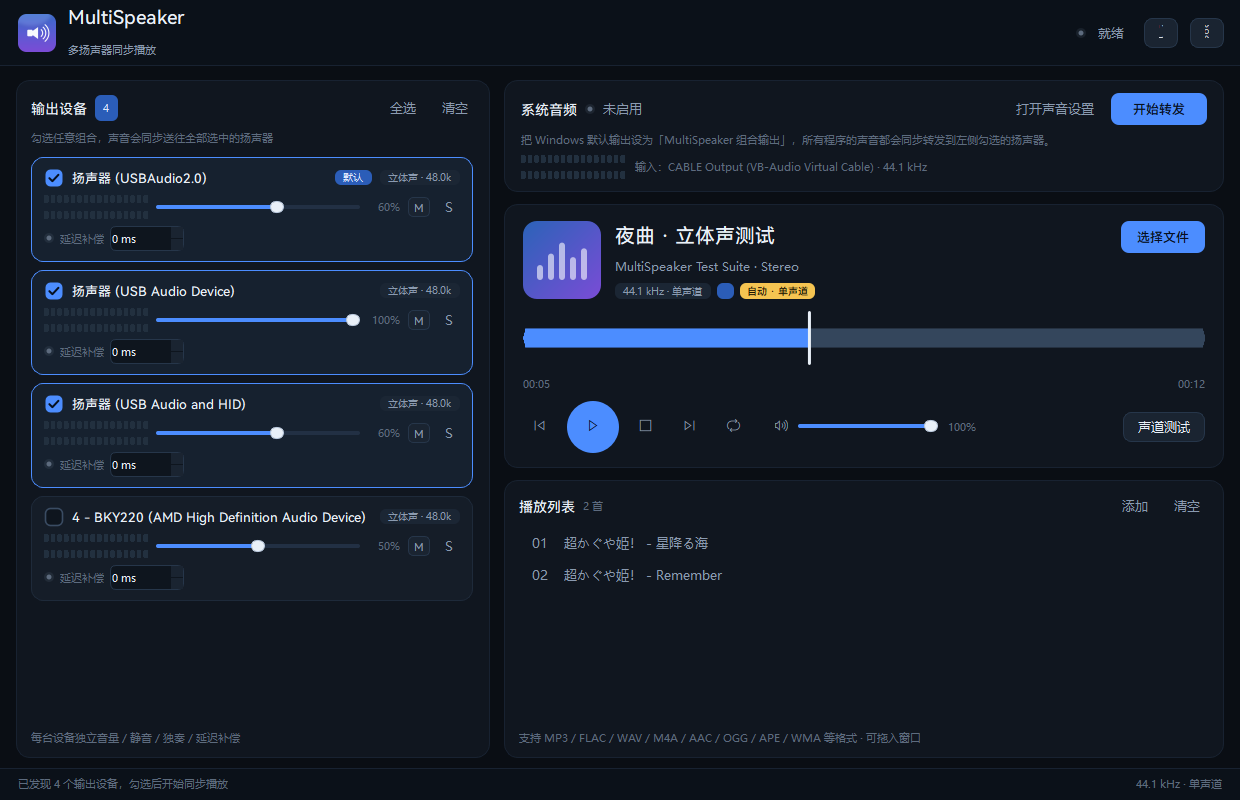
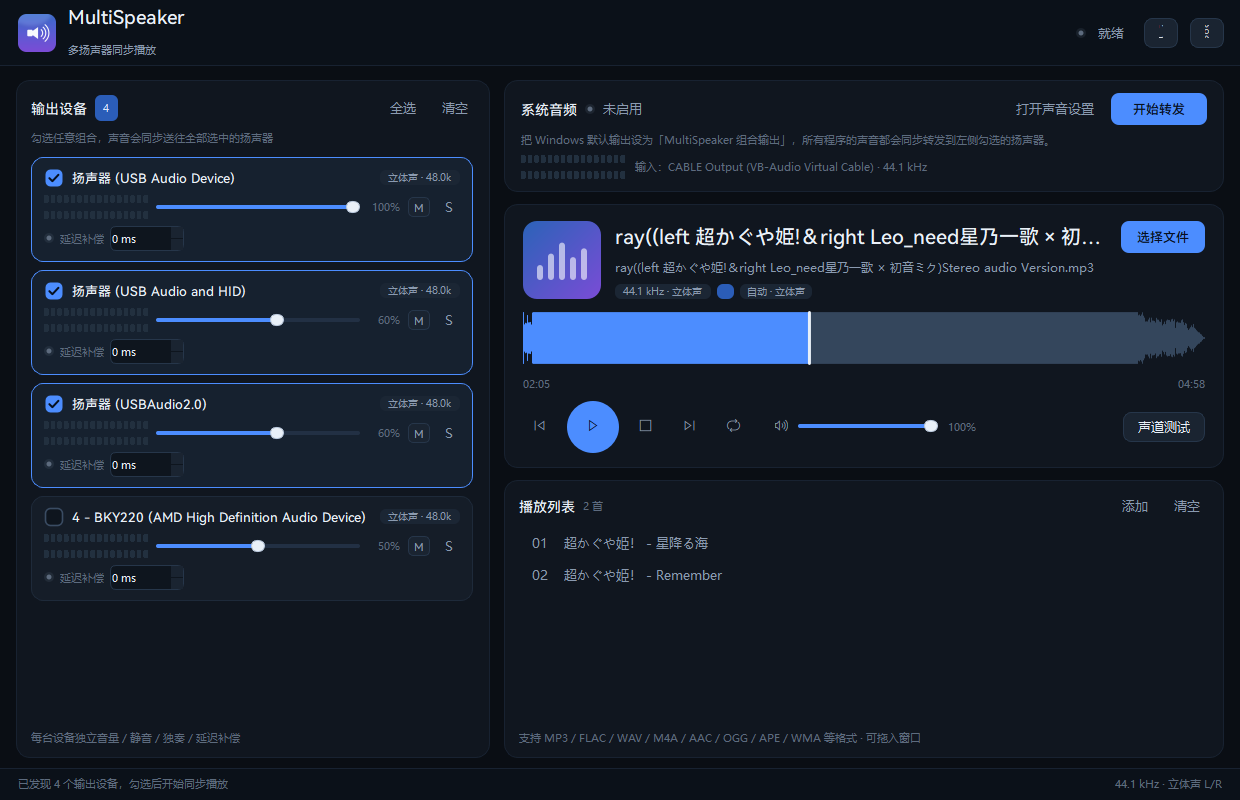
docs: 更新界面截图（自动模式显示立体声）

diff --git a/tools/shot_main2.py b/tools/shot_main2.py
@@ -1,0 +1,24 @@
+import sys, time
+from pathlib import Path
+ROOT = Path(__file__).resolve().parents[1]
+sys.path.insert(0, str(ROOT))
+from PySide6.QtWidgets import QApplication
+from app.ui import theme
+from app.ui.main_window import MainWindow
+app = QApplication([]); app.setStyle("Fusion"); app.setFont(theme.base_font(9.5)); app.setStyleSheet(theme.build_qss())
+w = MainWindow(); w.resize(1240, 800); w.show()
+def pump(sec, until=None):
+    end=time.time()+sec
+    while time.time()<end:
+        app.processEvents(); time.sleep(0.01)
+        if until and until(): return True
+    return False
+pump(0.4)
+k=list(w.cards.keys())[0]; w.cards[k].set_checked(True); w._on_card_toggled(k, True)
+w._load_path(r"I:\Music\U盘音乐\ray((left 超かぐや姫!＆right Leo_need星乃一歌 × 初音ミク)Stereo audio Version.mp3", autoplay=False)
+pump(20, until=lambda: w.track is not None)
+w.wave.set_progress(0.42); w.time_now.setText("02:05"); w.time_total.setText("04:58")
+pump(0.6)
+w.grab().save(str(ROOT/"docs"/"images"/"ui.png"))
+print("badge:", w.btn_mono.text(), "| fmt:", w.badge_fmt.text())
+w.close()
